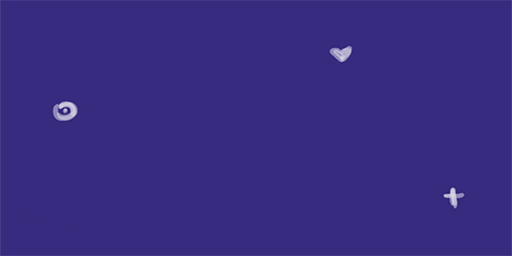
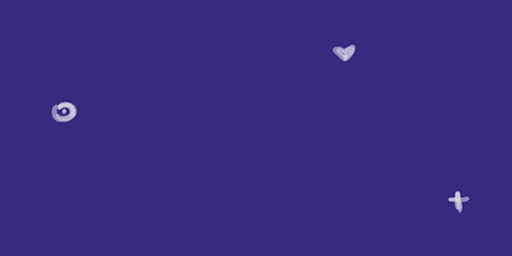
inserted some of the concept art. Mostly to add a background so the ship has some sense of direction.

Changed region(s): [[0.8438, 0.7188, 0.9375, 0.8438], [0.0938, 0.375, 0.1562, 0.5], [0.625, 0.1562, 0.7188, 0.25]]

diff --git a/spaceescape/src/com/se/spaceescape/screens/SpaceScreen.java b/spaceescape/src/com/se/spaceescape/screens/SpaceScreen.java
@@ -7,6 +7,7 @@ import com.badlogic.gdx.graphics.GL20;
 import com.badlogic.gdx.graphics.OrthographicCamera;
 import com.badlogic.gdx.graphics.Texture;
 import com.badlogic.gdx.graphics.Texture.TextureFilter;
+import com.badlogic.gdx.graphics.Texture.TextureWrap;
 import com.badlogic.gdx.graphics.g2d.Sprite;
 import com.badlogic.gdx.graphics.glutils.ShapeRenderer;
 import com.badlogic.gdx.graphics.glutils.ShapeRenderer.ShapeType;
@@ -31,6 +32,7 @@ public class SpaceScreen implements Screen {
 	OrthographicCamera camera;
 
 	Texture spaceshipTexture;
+	Texture backgroundTexture;
 	
 	public Spaceship spaceship;
 	
@@ -52,8 +54,11 @@ public class SpaceScreen implements Screen {
 		camera = new OrthographicCamera(w, h);
 		camera.zoom = 0.1f*5;
 		
-		spaceshipTexture = new Texture(Gdx.files.internal("art/spaceship.png"));
+		spaceshipTexture = new Texture(Gdx.files.internal("art/spaceshuttle.png"));
 		spaceshipTexture.setFilter(TextureFilter.Linear, TextureFilter.Linear);
+		
+		backgroundTexture = new Texture(Gdx.files.internal("art/space.png"));
+		backgroundTexture.setWrap(TextureWrap.Repeat, TextureWrap.Repeat);
 		
 		Sprite spaceshipSprite = new Sprite(spaceshipTexture);
 		spaceship = new Spaceship(g, spaceshipSprite);
@@ -90,6 +95,13 @@ public class SpaceScreen implements Screen {
 		Gdx.gl.glClear(GL20.GL_COLOR_BUFFER_BIT);
 		camera.position.set(spaceship.getPosition(), 0);
 		camera.update();
+		
+		game.backgroundBatch.begin();
+		int tilecount = 6;
+		game.backgroundBatch.draw(backgroundTexture, -spaceship.getPosition().x, -spaceship.getPosition().y,
+				backgroundTexture.getWidth() * tilecount, backgroundTexture.getHeight() * tilecount,
+				0, tilecount, tilecount, 0);
+		game.backgroundBatch.end();
 
 		game.batch.setProjectionMatrix(camera.combined);
 		game.batch.begin();

diff --git a/spaceescape/src/com/se/spaceescape/SpaceEscapeGame.java b/spaceescape/src/com/se/spaceescape/SpaceEscapeGame.java
@@ -13,12 +13,14 @@ public class SpaceEscapeGame extends Game {
 	
     public SpriteBatch batch;
     public SpriteBatch hudBatch;
+    public SpriteBatch backgroundBatch;
     public BitmapFont font;
 		
 	@Override
 	public void create() {
 		hudBatch = new SpriteBatch();
 		batch = new SpriteBatch();
+		backgroundBatch = new SpriteBatch();
 		font = new BitmapFont();
 		
 		pauseScreen = new PauseScreen(this);
@@ -34,6 +36,8 @@ public class SpaceEscapeGame extends Game {
 	@Override
 	public void dispose() {
 		batch.dispose();
+		hudBatch.dispose();
+		backgroundBatch.dispose();
 		font.dispose();
 	}
 }

diff --git a/spaceescape/src/com/se/spaceescape/Constants.java b/spaceescape/src/com/se/spaceescape/Constants.java
@@ -12,7 +12,7 @@ public class Constants {
 	public static final int TOTAL_RESOURCE_FOOD = 16;
 	
 	static {
-		RESOURCE_IMGS[RESOURCE_FOOD] = new Texture(Gdx.files.internal("art/food.png"));
+		RESOURCE_IMGS[RESOURCE_FOOD] = new Texture(Gdx.files.internal("art/bread.png"));
 		RESOURCE_IMGS[RESOURCE_FOOD].setFilter(TextureFilter.Linear, TextureFilter.Linear);
 	}
 }
